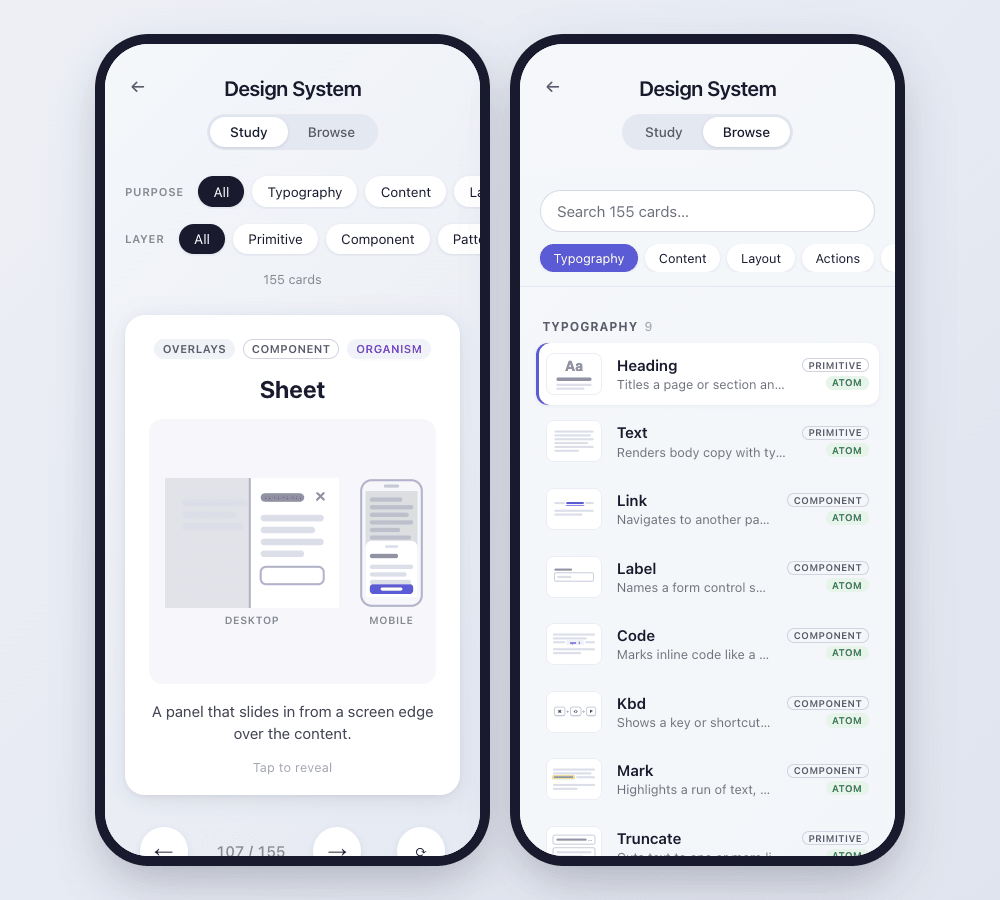
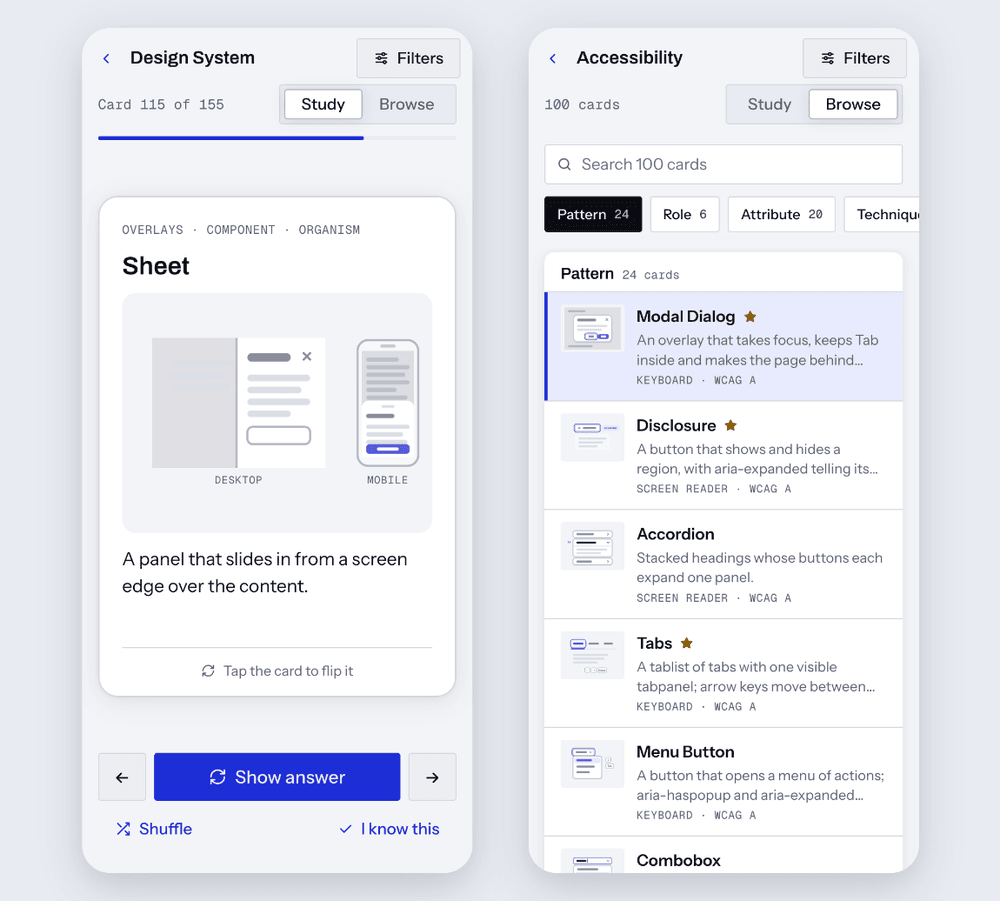
close the maturity gaps
New social card and README demo image of the v1.0.0 design; package.json
and index.html descriptions list all ten decks; README no longer calls
facets badges.

diff --git a/index.html b/index.html
@@ -6,7 +6,7 @@
     <title>Flashcards</title>
     <meta
       name="description"
-      content="Flashcards for learning design systems, CSS, accessibility, web performance, web security, system design and testing, with drawings, filters and native equivalents."
+      content="Flashcards for learning design systems, CSS, accessibility, web performance, web security, system design, testing, Next.js, LLM engineering and LLM internals, with drawings, filters and native equivalents."
     />
     <link rel="canonical" href="https://flashcards.pearpages.com/" />
     <link rel="icon" type="image/svg+xml" href="/favicon.svg" />
@@ -27,7 +27,7 @@
     <meta property="og:image:height" content="630" />
     <meta
       property="og:image:alt"
-      content="Flashcards: a fanned stack of cards, Circuit Breaker and Container queries, next to the title Learn the web, one card at a time."
+      content="Flashcards: Learn the web, one card at a time. 10 decks, 1,070 cards. Two phone screens: an LLM Internals card in study mode and the Web Security browse list."
     />
     <meta name="twitter:card" content="summary_large_image" />
     <meta name="twitter:title" content="Flashcards" />

diff --git a/README.md b/README.md
@@ -6,11 +6,11 @@
 [![Release](https://img.shields.io/github/v/release/pearpages/flashcards)](https://github.com/pearpages/flashcards/releases)
 [![License: MIT](https://img.shields.io/badge/license-MIT-blue)](LICENSE)
 
-A mobile-first flashcard app with ten decks: design systems, CSS, accessibility, web performance, web security, system design, testing, Next.js, LLM engineering and LLM internals. Every card has a wireframe drawing, and each deck brings its own filters and badges. About a fifth of every deck is starred ★ as the essentials you must know, and you can hide the cards you already know.
+A mobile-first flashcard app with ten decks: design systems, CSS, accessibility, web performance, web security, system design, testing, Next.js, LLM engineering and LLM internals. Every card has a wireframe drawing, and each deck brings its own filters and facets. About a fifth of every deck is starred ★ as the essentials you must know, and you can hide the cards you already know.
 
 The first deck, **Design System**, has 155 components, each tagged three ways: its purpose (forms, navigation, overlays…), its layer (primitive, component, pattern) and its atomic design level (atom, molecule, organism, template). Each card has wireframe drawings and, for most, the iOS and Android equivalents.
 
-A second deck, **Accessibility**, covers 100 ARIA patterns, roles and attributes, techniques and WCAG 2.2 criteria, filtered by kind and by who they help most (screen reader, keyboard, low vision, motor, cognitive, hearing, vestibular, photosensitive), with the WCAG level as a badge and the SwiftUI and Compose equivalents.
+A second deck, **Accessibility**, covers 100 ARIA patterns, roles and attributes, techniques and WCAG 2.2 criteria, filtered by kind and by who they help most (screen reader, keyboard, low vision, motor, cognitive, hearing, vestibular, photosensitive), with the WCAG level on each card and the SwiftUI and Compose equivalents.
 
 A third deck, **System Design**, has 104 building blocks, patterns and principles of backend systems (caching, messaging, consistency, reliability…), each with the AWS, Google Cloud and Azure service where one exists.
 
@@ -30,7 +30,7 @@ A tenth deck, **LLM Internals**, has 100 cards on how the models work inside: to
 
 **Try it: [flashcards.pearpages.com](https://flashcards.pearpages.com)** — works on phones and desktop, no sign-up.
 
-<img src="./docs/static/demo.png" alt="Two phone screens: the Sheet card in study mode with desktop and mobile drawings, and the browse list grouped by purpose" width="500" />
+<img src="./docs/static/demo.png" alt="Two phone screens: the Sheet card in study mode with its desktop and mobile drawings, progress bar and Show answer button, and the accessibility browse list with search, section chips and starred essential cards" width="500" />
 
 ## Tech Stack
 
@@ -139,9 +139,9 @@ Create `src/decks/<deck-id>/` with a `deck.json` (its `id` must match the folder
 
 A deck whose cards list equivalents declares the columns, in display order, in `deck.json`: `"platforms": [{ "key": "aws", "label": "AWS" }, …]`. A card key that isn't declared fails `pnpm validate`.
 
-Add `"filter": false` to a facet to show it as a badge on each card without a filter row (the design-system deck does this for `atomic`).
+Add `"filter": false` to a facet to show it on each card (in the line of facets above the title) without a filter row (the design-system deck does this for `atomic`).
 
-In the accessibility deck, `kind` (pattern, role, attribute, technique, criterion) groups the list, `helps` filters by who benefits most, and `level` (WCAG A/AA/AAA of the main success criterion) is a badge; criteria list their `SC x.y.z` number in `aliases`, so search finds them.
+In the accessibility deck, `kind` (pattern, role, attribute, technique, criterion) groups the list, `helps` filters by who benefits most, and `level` (WCAG A/AA/AAA of the main success criterion) shows on the card; criteria list their `SC x.y.z` number in `aliases`, so search finds them.
 
 In the design-system deck, `layer` means `primitive` (unopinionated building block), `component` or `pattern` (a composition that solves a recurring problem).
 

diff --git a/tasks.md b/tasks.md
@@ -25,21 +25,15 @@ item, and add a dated line at the top of **Done**.
 - [ ] **Review Proposed ADR-0015 and the essential picks** (about 20% of each deck, chosen by
       judgement). Open questions: css has no essential card in colour or architecture
       (candidates: `color-scheme`, `currentcolor`, `design-tokens`).
-- [ ] **Social card still says six decks.** `public/og.webp` predates the testing,
-      Next.js and LLM decks; regenerate it with ten.
-
 - [ ] **Dark mode.** pulp's tokens support it, but the page is pinned to light: card
       drawings use a light palette (#1a1a2e ink). Needs drawings that work on dark, or a light
       plate behind them.
 - [ ] **Toast look.** pulp's toast is its info Alert; the redesign canvas drew a dark toast.
       Decide whether pulp should offer that variant.
-- [ ] **README demo image** (`docs/static/demo.png`) and `public/og.webp` show the old UI.
 
 ### Advertising readiness
 
-- [ ] **A8 Open Graph live.** The tags and `og.webp` exist in the repo but the live site has
-      none yet (og.webp 404), so shared links show no preview — commit, then `/release minor`
-      to deploy, and check a LinkedIn preview (WebP card; switch to PNG if it comes up blank).
+None open: the 2026-10-31 assessment's gaps are closed (see Done).
 
 ### Scaffold follow-ups
 
@@ -48,6 +42,9 @@ item, and add a dated line at the top of **Done**.
 
 ## Done
 
+- [x] 2026-10-31: Closed the maturity gaps: new social card and README demo image of the v1.0.0 design, descriptions and keywords list all ten decks (package.json, index.html, GitHub repo and topics), v1.0.0 release notes, README no longer calls facets badges.
+- [x] 2026-10-31: Maturity assessment — verdict Ready after blockers, 4 gaps added to Open.
+- [x] 2026-10-31: A8 Open Graph live: the tags and `og.webp` are served on flashcards.pearpages.com.
 - [x] 2026-10-31: Accepted ADR-0019 (UI on the pulp design system).
 - [x] 2026-10-31: Released v1.0.0.
 - [x] 2026-10-31: Redesigned the app on the pulp design system, following the "Flashcards: mobile redesign on pulp" canvas: deck list, study screen with progress and Show answer / I know this / Next card, filters in a sheet with counts and switches, browse sections as surfaces, toasts with Undo; ADR-0019.
